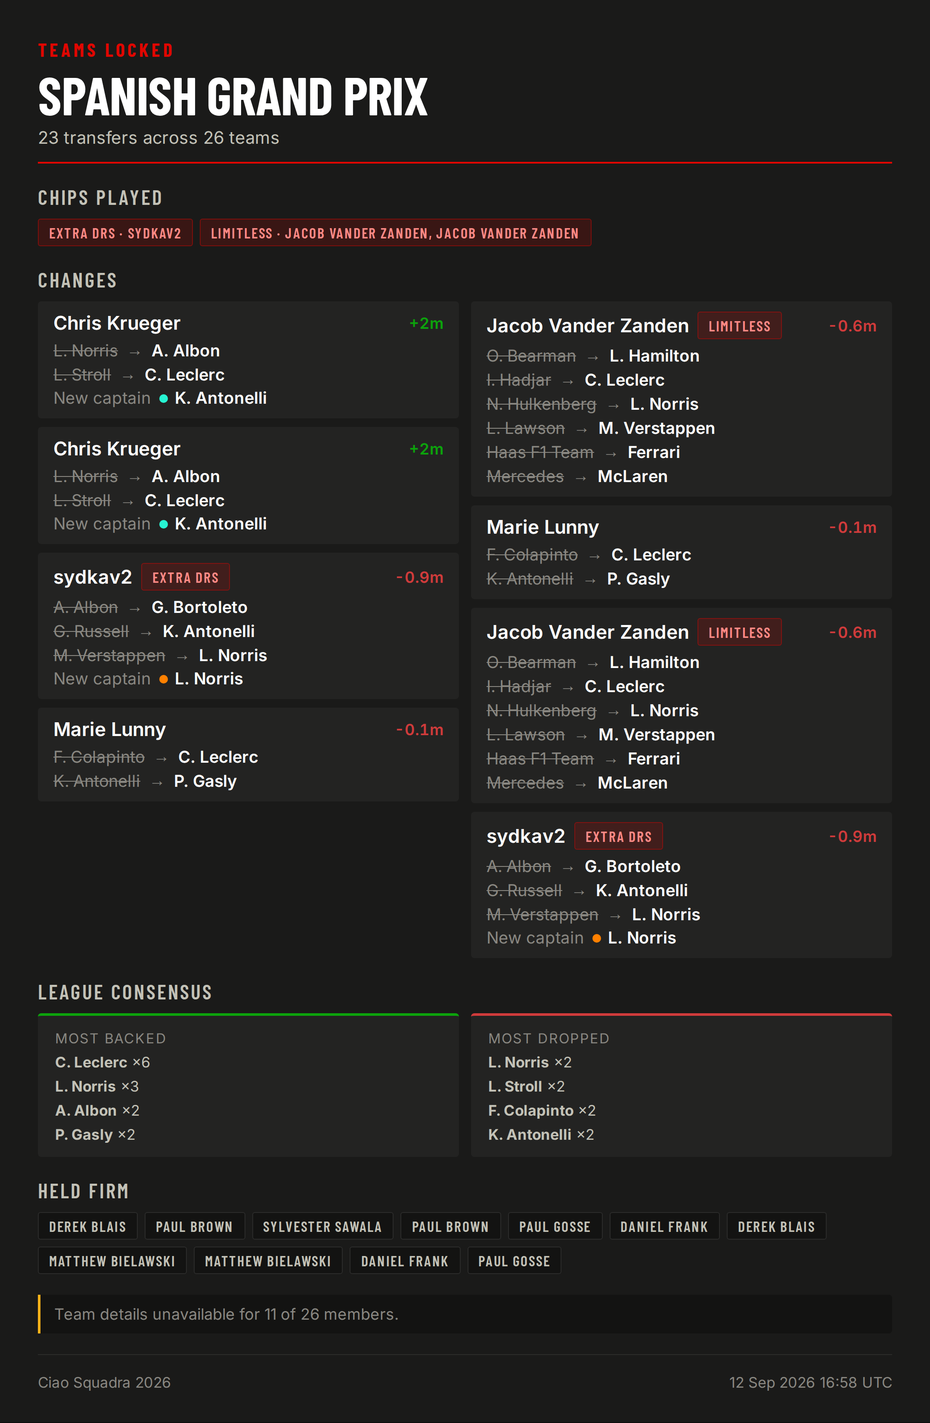
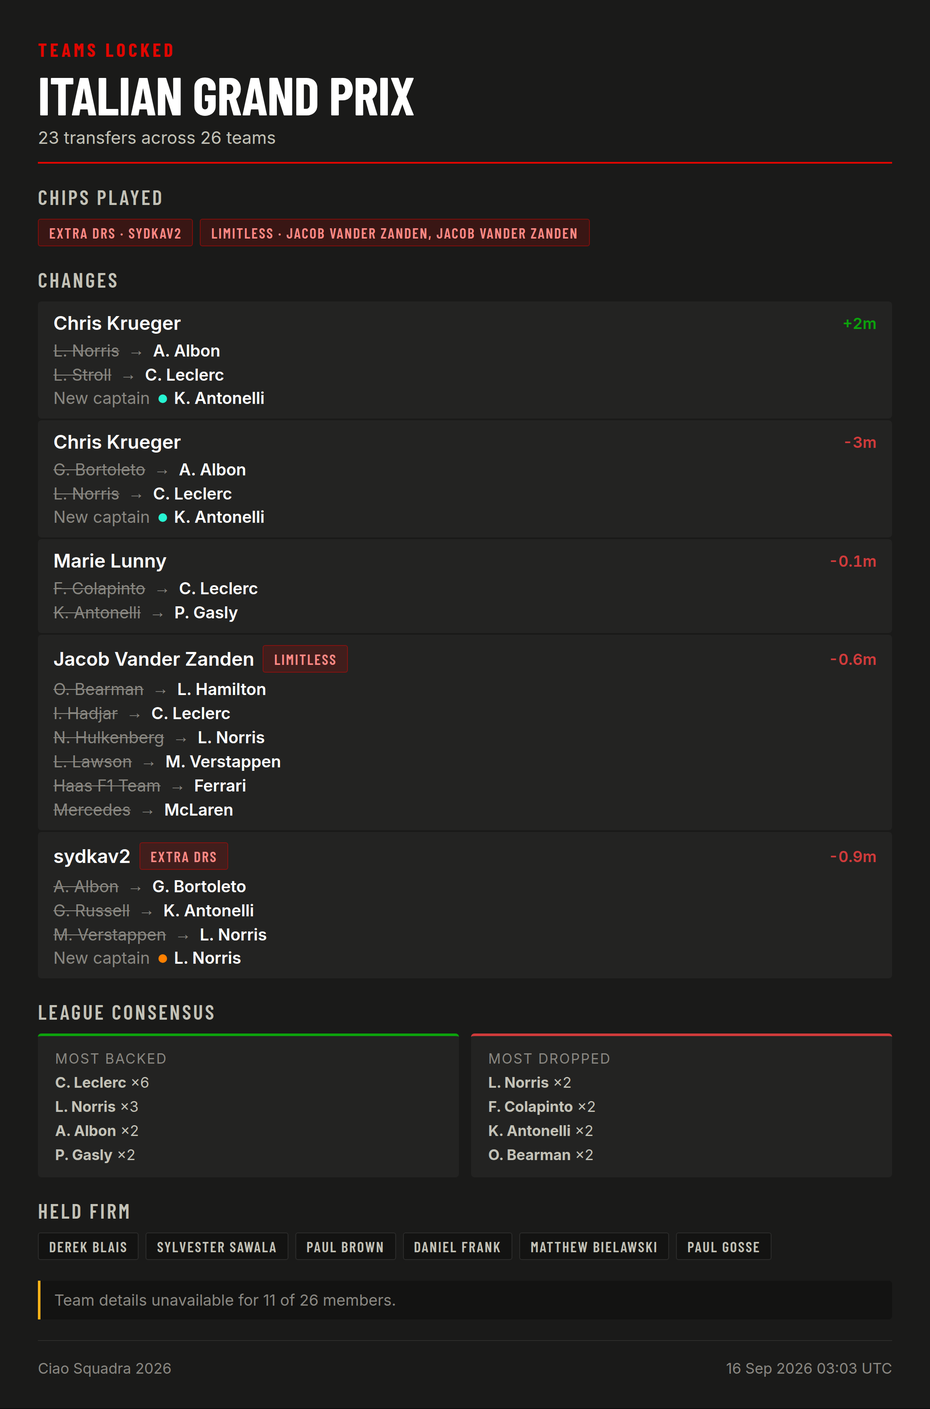
Fix: a two-team account's real transfer could vanish from the lockout card
build_lockout keyed its member-to-change lookup by guid alone
(`by_guid = {c.guid: c for c in changes}`). An account running two teams in
the league -- confirmed live, this project's own owner is one -- produces
two TeamChange entries sharing one guid; the bare-guid dict silently kept
only the second, so both of that account's member rows reported the same
team's status. Whichever team happened to be unchanged "won", which meant:
its name printed twice under "Held firm", and the OTHER team's real
transfer never appeared under "Changes" at all -- not wrong, just gone.

Confirmed against live data: re-running build_lockout on round 15's real
snapshots with the fix surfaces a transfer (Hamilton->Bearman, Lindblad->
Norris on "Chucky Layclercks") that the committed card had silently
dropped, showing that team as "held firm" alongside its own, unrelated
second team instead.

Fixed by keying on (guid, team_no) via the existing team_key() helper --
the same fix diff_standings already had, for the identical reason (see
test_multi_team.py). Regenerated the two committed lockout cards this
affected (rounds 13 and 15); round 13's was also carrying the wrong race
name ("Spanish" instead of "Italian Grand Prix", the same forced-dispatch
mislabeling documented elsewhere in this repo) -- corrected that too while
re-rendering it.

Claude-Session: https://claude.ai/code/session_019AogpxY8ZrLfAj67CcZveZ

diff --git a/docs/rounds/round-13.html b/docs/rounds/round-13.html
@@ -135,7 +135,7 @@ footer.site-footer { font-size: 11px; color: var(--ink-muted); line-height: 1.6;
     <h1>Italian Grand Prix</h1>
     <div class="subtitle">Autodromo Nazionale di Monza</div>
   </header>
-  <div class="section-title">Pre-race</div><div class="card-grid"><div class="card"><div class="card-title">Preview</div><img src="../assets/2026/13/preview.png" alt="Preview" loading="lazy"><div class="card-caption">📅 <strong>Preview</strong> -- Italian Grand Prix<br>Autodromo Nazionale di Monza, Monza<br><br>⏰ Lockout: Saturday 15:00 BST<br>  FP1: Fri 11:30<br>  FP2: Fri 15:00<br>  FP3: Sat 11:30<br>  Qualifying: Sat 15:00 (lockout)<br><br>📰 Worth knowing:<br>  Gasly hails Alpine progress as Colapinto rues ‘harsh’ penalty<br></div></div><div class="card"><div class="card-title">Teams locked</div><img src="../assets/2026/13/lockout.png" alt="Teams locked" loading="lazy"><div class="card-caption">🔒 <strong>Teams are locked</strong> -- Spanish Grand Prix<br><br>23 transfers across 26 teams.<br>🎴 Chips: Extra DRS (sydkav2); Limitless (Jacob Vander Zanden, Jacob Vander Zanden)<br>📈 Most backed: C. Leclerc (×6), L. Norris (×3), A. Albon (×2), P. Gasly (×2)<br>🧊 Held firm: Derek Blais, Paul Brown, Sylvester Sawala, Paul Brown, Paul Gosse, Daniel Frank, Derek Blais, Matthew Bielawski, Matthew Bielawski, Daniel Frank, Paul Gosse<br><br>Good luck 🏎<br></div></div><div class="card"><div class="card-title">Picks</div><img src="../assets/2026/13/picks.png" alt="Picks" loading="lazy"><div class="card-caption">🏁 <strong>Race picks</strong> -- Italian Grand Prix<br>Autodromo Nazionale di Monza, Monza<br><br>📊 Top expected points:<br>  ANT: 24.1 (p10 -7.0 / p90 42.0)<br>  RUS: 23.3 (p10 -5.0 / p90 42.0)<br>  HAM: 22.7 (p10 2.0 / p90 40.0)<br>  LEC: 21.8 (p10 -1.0 / p90 39.0)<br>  NOR: 16.5 (p10 -10.0 / p90 38.0)<br><br>🏗 Captain suggestion: ANT (EV 48.3)<br><br>📈 Likely price risers:<br>  LEC: 100% (Δ+0.28M)<br>  NOR: 100% (Δ+0.28M)<br>  ALO: 100% (Δ+0.49M)<br>  ANT: 97% (Δ+0.23M)<br>  HAD: 84% (Δ+0.40M)<br><br>🧩 Optimal team: COL, BOR, HUL, TSU, LIN + Mercedes, Ferrari (132.5 pts, $99.5M)<br></div></div><div class="card"><div class="card-title">Chip watch</div><img src="../assets/2026/13/chips.png" alt="Chip watch" loading="lazy"><div class="card-caption">🎴 <strong>Chip Watch</strong> -- Spanish Grand Prix<br><br><strong>Played this race</strong><br>  Extra DRS: sydkav2<br>  Limitless: Jacob Vander Zanden, Jacob Vander Zanden<br><br>🧊 Nobody&#x27;s played: Final Fix<br></div></div><div class="card"><div class="card-title">Ownership</div><img src="../assets/2026/13/ownership.png" alt="Ownership" loading="lazy"><div class="card-caption">👥 <strong>Ownership</strong> -- Spanish Grand Prix<br><br>Most owned: <strong>C. Leclerc</strong> (7/15 teams)<br>💎 Differentials: C. Sainz, E. Ocon, I. Hadjar, L. Lawson<br></div></div><div class="card"><div class="card-title">Budget cap</div><img src="../assets/2026/13/budget.png" alt="Budget cap" loading="lazy"><div class="card-caption">💰 <strong>Budget Cap</strong> -- Spanish Grand Prix<br><br>Biggest budget: <strong>Chris Krueger</strong> ($127.5M)<br>Tightest squeeze: <strong>Paul Gosse</strong> ($100.0M)<br></div></div><div class="card"><div class="card-title">Model benchmarks</div><img src="../assets/2026/13/benchmarks.png" alt="Model benchmarks" loading="lazy"><div class="card-caption">📊 <strong>2026 round 13 benchmarks</strong><br>3 snapshot(s) captured<br><br>Our top picks:<br>  HAM: 16.5 (p10 -5.0 / p90 37.0)<br>  LEC: 15.4 (p10 -8.0 / p90 37.1)<br>  RUS: 15.2 (p10 -8.0 / p90 38.0)<br>  GAS: 15.1 (p10 -2.0 / p90 36.1)<br>  LIN: 14.6 (p10 -5.0 / p90 35.0)<br><br>official_projected (pre_FP1) (n=23):<br>  ALB: 0.0<br>  ALO: 0.0<br>  ANT: 0.0<br>  BEA: 0.0<br>  BOR: 0.0<br><br>crowd_consensus (ownership) (n=23):<br>  BEA: 51.0<br>  LIN: 45.0<br>  ANT: 36.0<br>  HUL: 36.0<br>  BOR: 35.0<br><br>ours (pre_FP1) (n=23):<br>  HAM: 15.3<br>  RUS: 15.2<br>  LEC: 14.9<br>  ANT: 14.9<br>  GAS: 14.2<br><br>Our backtested track record: MAE 13.2, Spearman 0.462<br></div></div></div><div class="section-title">Post-race</div><div class="card-grid"><div class="card"><div class="card-title">Recap</div><img src="../assets/2026/13/recap.png" alt="Recap" loading="lazy"><div class="card-caption">🏁 <strong>Italian Grand Prix</strong> -- Ciao Squadra 2026<br>🥇 Round winner: <strong>sydkav2</strong> with 519 pts<br><br><strong>Top 3</strong><br>1. Chris Krueger — 3437<br>2. Derek Blais — 3191<br>3. Paul Brown — 3084<br><br>📈 Best move: sydkav2 (+52) — 3 out, 3 in (G. Bortoleto, K. Antonelli, L. Norris)<br>📉 Worst move: Marie Lunny (-105) — 2 out, 2 in (C. Leclerc, P. Gasly)<br><br>🎴 Chips: Extra DRS (sydkav2); Limitless (Jacob Vander Zanden, Jacob Vander Zanden)<br></div></div><div class="card"><div class="card-title">Winners &amp; losers</div><img src="../assets/2026/13/winners_losers.png" alt="Winners &amp; losers" loading="lazy"><div class="card-caption">🏆 <strong>Winners &amp; Losers</strong> -- Italian Grand Prix<br><br>🥇 Best race: <strong>sydkav2</strong> (+519 pts)<br>📉 Roughest race: <strong>Jacob Vander Zanden</strong> (+98 pts)<br>📈 Best move: sydkav2 (+52) — 3 out, 3 in (G. Bortoleto, K. Antonelli…)<br>💀 Worst move: Marie Lunny (-105) — 2 out, 2 in (C. Leclerc, P. Gasly)<br>🏗 Best armband: Chris Krueger on K. Antonelli (+93)<br></div></div><div class="card"><div class="card-title">Hindsight</div><img src="../assets/2026/13/hindsight.png" alt="Hindsight" loading="lazy"><div class="card-caption">🔮 <strong>Hindsight</strong> -- Italian Grand Prix<br><br>Optimal team scored 428 pts (captain: ANT)<br>Closest to perfect: sydkav2 (519 pts, --91)<br>Furthest from perfect: Caitlyn Landry (111 pts, -317)<br>League average gap to optimal: 182.1 pts<br></div></div></div><div class="section-title">Model vs. actuals</div>
+  <div class="section-title">Pre-race</div><div class="card-grid"><div class="card"><div class="card-title">Preview</div><img src="../assets/2026/13/preview.png" alt="Preview" loading="lazy"><div class="card-caption">📅 <strong>Preview</strong> -- Italian Grand Prix<br>Autodromo Nazionale di Monza, Monza<br><br>⏰ Lockout: Saturday 15:00 BST<br>  FP1: Fri 11:30<br>  FP2: Fri 15:00<br>  FP3: Sat 11:30<br>  Qualifying: Sat 15:00 (lockout)<br><br>📰 Worth knowing:<br>  Gasly hails Alpine progress as Colapinto rues ‘harsh’ penalty<br></div></div><div class="card"><div class="card-title">Teams locked</div><img src="../assets/2026/13/lockout.png" alt="Teams locked" loading="lazy"><div class="card-caption">🔒 <strong>Teams are locked</strong> -- Italian Grand Prix<br><br>23 transfers across 26 teams.<br>🎴 Chips: Extra DRS (sydkav2); Limitless (Jacob Vander Zanden, Jacob Vander Zanden)<br>📈 Most backed: C. Leclerc (×6), L. Norris (×3), A. Albon (×2), P. Gasly (×2)<br>🧊 Held firm: Derek Blais, Sylvester Sawala, Paul Brown, Daniel Frank, Matthew Bielawski, Paul Gosse<br><br>Good luck 🏎<br></div></div><div class="card"><div class="card-title">Picks</div><img src="../assets/2026/13/picks.png" alt="Picks" loading="lazy"><div class="card-caption">🏁 <strong>Race picks</strong> -- Italian Grand Prix<br>Autodromo Nazionale di Monza, Monza<br><br>📊 Top expected points:<br>  ANT: 24.1 (p10 -7.0 / p90 42.0)<br>  RUS: 23.3 (p10 -5.0 / p90 42.0)<br>  HAM: 22.7 (p10 2.0 / p90 40.0)<br>  LEC: 21.8 (p10 -1.0 / p90 39.0)<br>  NOR: 16.5 (p10 -10.0 / p90 38.0)<br><br>🏗 Captain suggestion: ANT (EV 48.3)<br><br>📈 Likely price risers:<br>  LEC: 100% (Δ+0.28M)<br>  NOR: 100% (Δ+0.28M)<br>  ALO: 100% (Δ+0.49M)<br>  ANT: 97% (Δ+0.23M)<br>  HAD: 84% (Δ+0.40M)<br><br>🧩 Optimal team: COL, BOR, HUL, TSU, LIN + Mercedes, Ferrari (132.5 pts, $99.5M)<br></div></div><div class="card"><div class="card-title">Chip watch</div><img src="../assets/2026/13/chips.png" alt="Chip watch" loading="lazy"><div class="card-caption">🎴 <strong>Chip Watch</strong> -- Spanish Grand Prix<br><br><strong>Played this race</strong><br>  Extra DRS: sydkav2<br>  Limitless: Jacob Vander Zanden, Jacob Vander Zanden<br><br>🧊 Nobody&#x27;s played: Final Fix<br></div></div><div class="card"><div class="card-title">Ownership</div><img src="../assets/2026/13/ownership.png" alt="Ownership" loading="lazy"><div class="card-caption">👥 <strong>Ownership</strong> -- Spanish Grand Prix<br><br>Most owned: <strong>C. Leclerc</strong> (7/15 teams)<br>💎 Differentials: C. Sainz, E. Ocon, I. Hadjar, L. Lawson<br></div></div><div class="card"><div class="card-title">Budget cap</div><img src="../assets/2026/13/budget.png" alt="Budget cap" loading="lazy"><div class="card-caption">💰 <strong>Budget Cap</strong> -- Spanish Grand Prix<br><br>Biggest budget: <strong>Chris Krueger</strong> ($127.5M)<br>Tightest squeeze: <strong>Paul Gosse</strong> ($100.0M)<br></div></div><div class="card"><div class="card-title">Model benchmarks</div><img src="../assets/2026/13/benchmarks.png" alt="Model benchmarks" loading="lazy"><div class="card-caption">📊 <strong>2026 round 13 benchmarks</strong><br>3 snapshot(s) captured<br><br>Our top picks:<br>  HAM: 16.5 (p10 -5.0 / p90 37.0)<br>  LEC: 15.4 (p10 -8.0 / p90 37.1)<br>  RUS: 15.2 (p10 -8.0 / p90 38.0)<br>  GAS: 15.1 (p10 -2.0 / p90 36.1)<br>  LIN: 14.6 (p10 -5.0 / p90 35.0)<br><br>official_projected (pre_FP1) (n=23):<br>  ALB: 0.0<br>  ALO: 0.0<br>  ANT: 0.0<br>  BEA: 0.0<br>  BOR: 0.0<br><br>crowd_consensus (ownership) (n=23):<br>  BEA: 51.0<br>  LIN: 45.0<br>  ANT: 36.0<br>  HUL: 36.0<br>  BOR: 35.0<br><br>ours (pre_FP1) (n=23):<br>  HAM: 15.3<br>  RUS: 15.2<br>  LEC: 14.9<br>  ANT: 14.9<br>  GAS: 14.2<br><br>Our backtested track record: MAE 13.2, Spearman 0.462<br></div></div></div><div class="section-title">Post-race</div><div class="card-grid"><div class="card"><div class="card-title">Recap</div><img src="../assets/2026/13/recap.png" alt="Recap" loading="lazy"><div class="card-caption">🏁 <strong>Italian Grand Prix</strong> -- Ciao Squadra 2026<br>🥇 Round winner: <strong>sydkav2</strong> with 519 pts<br><br><strong>Top 3</strong><br>1. Chris Krueger — 3437<br>2. Derek Blais — 3191<br>3. Paul Brown — 3084<br><br>📈 Best move: sydkav2 (+52) — 3 out, 3 in (G. Bortoleto, K. Antonelli, L. Norris)<br>📉 Worst move: Marie Lunny (-105) — 2 out, 2 in (C. Leclerc, P. Gasly)<br><br>🎴 Chips: Extra DRS (sydkav2); Limitless (Jacob Vander Zanden, Jacob Vander Zanden)<br></div></div><div class="card"><div class="card-title">Winners &amp; losers</div><img src="../assets/2026/13/winners_losers.png" alt="Winners &amp; losers" loading="lazy"><div class="card-caption">🏆 <strong>Winners &amp; Losers</strong> -- Italian Grand Prix<br><br>🥇 Best race: <strong>sydkav2</strong> (+519 pts)<br>📉 Roughest race: <strong>Jacob Vander Zanden</strong> (+98 pts)<br>📈 Best move: sydkav2 (+52) — 3 out, 3 in (G. Bortoleto, K. Antonelli…)<br>💀 Worst move: Marie Lunny (-105) — 2 out, 2 in (C. Leclerc, P. Gasly)<br>🏗 Best armband: Chris Krueger on K. Antonelli (+93)<br></div></div><div class="card"><div class="card-title">Hindsight</div><img src="../assets/2026/13/hindsight.png" alt="Hindsight" loading="lazy"><div class="card-caption">🔮 <strong>Hindsight</strong> -- Italian Grand Prix<br><br>Optimal team scored 428 pts (captain: ANT)<br>Closest to perfect: sydkav2 (519 pts, --91)<br>Furthest from perfect: Caitlyn Landry (111 pts, -317)<br>League average gap to optimal: 182.1 pts<br></div></div></div><div class="section-title">Model vs. actuals</div>
 <div class="metric-row">
   <div class="metric"><div class="metric-label">Mean absolute error</div><div class="metric-value">13.0 pts</div></div>
   <div class="metric"><div class="metric-label">Rank correlation</div><div class="metric-value">0.55</div></div>

diff --git a/docs/rounds/round-15.html b/docs/rounds/round-15.html
@@ -135,7 +135,7 @@ footer.site-footer { font-size: 11px; color: var(--ink-muted); line-height: 1.6;
     <h1>Azerbaijan Grand Prix</h1>
     <div class="subtitle">Baku City Circuit</div>
   </header>
-  <div class="section-title">Deep dives</div><div class="extras-list"><a href="../extras/round-15/pace-ladder.html">Pace Ladder</a><a href="../extras/round-15/prerace-analysis.html">Prerace Analysis</a></div><div class="section-title">Pre-race</div><div class="card-grid"><div class="card"><div class="card-title">Teams locked</div><img src="../assets/2026/15/lockout.png" alt="Teams locked" loading="lazy"><div class="card-caption">🔒 <strong>Teams are locked</strong> -- Azerbaijan Grand Prix<br><br>2 transfers across 26 teams.<br>🧊 Held firm: Chris Krueger, Derek Blais, Paul Brown, Chris Krueger, sydkav2, Sylvester Sawala, Paul Brown, Marie Lunny, Jacob Vander Zanden, Paul Gosse, Marie Lunny, Daniel Frank, Derek Blais, Jacob Vander Zanden, Matthew Bielawski, Matthew Bielawski, Daniel Frank, sydkav2, Paul Gosse<br><br>Good luck 🏎<br></div></div><div class="card"><div class="card-title">Picks</div><img src="../assets/2026/15/picks.png" alt="Picks" loading="lazy"><div class="card-caption">🏁 <strong>Race picks</strong> -- Azerbaijan Grand Prix<br>Baku City Circuit, Baku<br><br>📊 Top expected points:<br>  ANT: 28.9 (p10 -2.0 / p90 49.0)<br>  RUS: 25.7 (p10 -3.0 / p90 45.0)<br>  HAM: 21.3 (p10 -8.0 / p90 42.0)<br>  LEC: 21.0 (p10 -8.0 / p90 40.0)<br>  NOR: 18.9 (p10 -10.0 / p90 41.0)<br><br>🏗 Captain suggestion: ANT (EV 57.9)<br><br>📈 Likely price risers:<br>  ANT: 100% (Δ+0.30M)<br>  NOR: 100% (Δ+0.23M)<br>  HUL: 89% (Δ+0.48M)<br>  RUS: 86% (Δ+0.10M)<br>  ALB: 71% (Δ+0.18M)<br><br>🧩 Optimal team: STR, HUL, PER, BOT, ANT + Mercedes, Ferrari (186.8 pts, $99.9M)<br></div></div><div class="card"><div class="card-title">Chip watch</div><img src="../assets/2026/15/chips.png" alt="Chip watch" loading="lazy"><div class="card-caption">🎴 <strong>Chip Watch</strong> -- Azerbaijan Grand Prix<br><br>🧊 Nobody&#x27;s played: Final Fix<br></div></div><div class="card"><div class="card-title">Ownership</div><img src="../assets/2026/15/ownership.png" alt="Ownership" loading="lazy"><div class="card-caption">👥 <strong>Ownership</strong> -- Azerbaijan Grand Prix<br><br>Most owned: <strong>K. Antonelli</strong> (9/15 teams)<br>💎 Differentials: C. Sainz, I. Hadjar, L. Lawson, McLaren<br></div></div><div class="card"><div class="card-title">Budget cap</div><img src="../assets/2026/15/budget.png" alt="Budget cap" loading="lazy"><div class="card-caption">💰 <strong>Budget Cap</strong> -- Azerbaijan Grand Prix<br><br>Biggest budget: <strong>Chris Krueger</strong> ($132.1M)<br>Tightest squeeze: <strong>Paul Gosse</strong> ($98.0M)<br></div></div></div><div class="section-title">Post-race</div><div class="card-grid"><div class="card"><div class="card-title">Recap</div><img src="../assets/2026/15/recap.png" alt="Recap" loading="lazy"><div class="card-caption">🏁 <strong>Azerbaijan Grand Prix</strong> -- Ciao Squadra 2026<br>🥇 Round winner: <strong>Daniel Frank</strong> with 235 pts<br><br><strong>Top 3</strong><br>1. Chris Krueger — 3751<br>2. Derek Blais — 3535<br>3. Paul Brown — 3469<br></div></div><div class="card"><div class="card-title">Winners &amp; losers</div><img src="../assets/2026/15/winners_losers.png" alt="Winners &amp; losers" loading="lazy"><div class="card-caption">🏆 <strong>Winners &amp; Losers</strong> -- Azerbaijan Grand Prix<br><br>🥇 Best race: <strong>Daniel Frank</strong> (+235 pts)<br>📉 Roughest race: <strong>Paul Gosse</strong> (+5 pts)<br>💀 Worst move: Chris Krueger (-38) — 2 out, 2 in (O. Bearman, L. Norris)<br>🏗 Best armband: Jacob Vander Zanden on G. Russell (+45)<br></div></div><div class="card"><div class="card-title">Hindsight</div><img src="../assets/2026/15/hindsight.png" alt="Hindsight" loading="lazy"><div class="card-caption">🔮 <strong>Hindsight</strong> -- Azerbaijan Grand Prix<br><br>Optimal team scored 218 pts (captain: HAD)<br>Closest to perfect: Derek Blais (204 pts, -14)<br>Furthest from perfect: Paul Gosse (5 pts, -213)<br>League average gap to optimal: 98.1 pts<br></div></div></div><div class="section-title">Model vs. actuals</div><div class="empty-note">Not in the walk-forward backtest yet -- run <code>f1-fantasy points-backtest</code> to add this round once it has raced.</div>
+  <div class="section-title">Deep dives</div><div class="extras-list"><a href="../extras/round-15/pace-ladder.html">Pace Ladder</a><a href="../extras/round-15/prerace-analysis.html">Prerace Analysis</a></div><div class="section-title">Pre-race</div><div class="card-grid"><div class="card"><div class="card-title">Teams locked</div><img src="../assets/2026/15/lockout.png" alt="Teams locked" loading="lazy"><div class="card-caption">🔒 <strong>Teams are locked</strong> -- Azerbaijan Grand Prix<br><br>2 transfers across 26 teams.<br>🧊 Held firm: Derek Blais, Chris Krueger, Sylvester Sawala, Paul Brown, Daniel Frank, Marie Lunny, Jacob Vander Zanden, Matthew Bielawski, sydkav2, Paul Gosse<br><br>Good luck 🏎<br></div></div><div class="card"><div class="card-title">Picks</div><img src="../assets/2026/15/picks.png" alt="Picks" loading="lazy"><div class="card-caption">🏁 <strong>Race picks</strong> -- Azerbaijan Grand Prix<br>Baku City Circuit, Baku<br><br>📊 Top expected points:<br>  ANT: 28.9 (p10 -2.0 / p90 49.0)<br>  RUS: 25.7 (p10 -3.0 / p90 45.0)<br>  HAM: 21.3 (p10 -8.0 / p90 42.0)<br>  LEC: 21.0 (p10 -8.0 / p90 40.0)<br>  NOR: 18.9 (p10 -10.0 / p90 41.0)<br><br>🏗 Captain suggestion: ANT (EV 57.9)<br><br>📈 Likely price risers:<br>  ANT: 100% (Δ+0.30M)<br>  NOR: 100% (Δ+0.23M)<br>  HUL: 89% (Δ+0.48M)<br>  RUS: 86% (Δ+0.10M)<br>  ALB: 71% (Δ+0.18M)<br><br>🧩 Optimal team: STR, HUL, PER, BOT, ANT + Mercedes, Ferrari (186.8 pts, $99.9M)<br></div></div><div class="card"><div class="card-title">Chip watch</div><img src="../assets/2026/15/chips.png" alt="Chip watch" loading="lazy"><div class="card-caption">🎴 <strong>Chip Watch</strong> -- Azerbaijan Grand Prix<br><br>🧊 Nobody&#x27;s played: Final Fix<br></div></div><div class="card"><div class="card-title">Ownership</div><img src="../assets/2026/15/ownership.png" alt="Ownership" loading="lazy"><div class="card-caption">👥 <strong>Ownership</strong> -- Azerbaijan Grand Prix<br><br>Most owned: <strong>K. Antonelli</strong> (9/15 teams)<br>💎 Differentials: C. Sainz, I. Hadjar, L. Lawson, McLaren<br></div></div><div class="card"><div class="card-title">Budget cap</div><img src="../assets/2026/15/budget.png" alt="Budget cap" loading="lazy"><div class="card-caption">💰 <strong>Budget Cap</strong> -- Azerbaijan Grand Prix<br><br>Biggest budget: <strong>Chris Krueger</strong> ($132.1M)<br>Tightest squeeze: <strong>Paul Gosse</strong> ($98.0M)<br></div></div></div><div class="section-title">Post-race</div><div class="card-grid"><div class="card"><div class="card-title">Recap</div><img src="../assets/2026/15/recap.png" alt="Recap" loading="lazy"><div class="card-caption">🏁 <strong>Azerbaijan Grand Prix</strong> -- Ciao Squadra 2026<br>🥇 Round winner: <strong>Daniel Frank</strong> with 235 pts<br><br><strong>Top 3</strong><br>1. Chris Krueger — 3751<br>2. Derek Blais — 3535<br>3. Paul Brown — 3469<br></div></div><div class="card"><div class="card-title">Winners &amp; losers</div><img src="../assets/2026/15/winners_losers.png" alt="Winners &amp; losers" loading="lazy"><div class="card-caption">🏆 <strong>Winners &amp; Losers</strong> -- Azerbaijan Grand Prix<br><br>🥇 Best race: <strong>Daniel Frank</strong> (+235 pts)<br>📉 Roughest race: <strong>Paul Gosse</strong> (+5 pts)<br>💀 Worst move: Chris Krueger (-38) — 2 out, 2 in (O. Bearman, L. Norris)<br>🏗 Best armband: Jacob Vander Zanden on G. Russell (+45)<br></div></div><div class="card"><div class="card-title">Hindsight</div><img src="../assets/2026/15/hindsight.png" alt="Hindsight" loading="lazy"><div class="card-caption">🔮 <strong>Hindsight</strong> -- Azerbaijan Grand Prix<br><br>Optimal team scored 218 pts (captain: HAD)<br>Closest to perfect: Derek Blais (204 pts, -14)<br>Furthest from perfect: Paul Gosse (5 pts, -213)<br>League average gap to optimal: 98.1 pts<br></div></div></div><div class="section-title">Model vs. actuals</div><div class="empty-note">Not in the walk-forward backtest yet -- run <code>f1-fantasy points-backtest</code> to add this round once it has raced.</div>
   <footer class="site-footer">Ciao Squadra 2026 &middot; generated from this repository's committed cards and snapshots.</footer>
 </div>
 

diff --git a/tests/test_multi_team.py b/tests/test_multi_team.py
@@ -16,6 +16,7 @@ from datetime import datetime, timezone
 import pytest
 
 from f1_fantasy.api.models import Chip, LeagueSnapshot, Member, Phase, team_key
+from f1_fantasy.report.lockout import build_lockout
 from f1_fantasy.store.diff import chip_status, diff_standings, diff_teams, ownership, score_captains
 from tests.conftest import make_players, make_team
 
@@ -161,3 +162,27 @@ def test_standings_movement_matches_each_team_to_its_own_previous_points():
 
     assert moves["sydkav1"].points_gained == pytest.approx(382.0)
     assert moves["sydkav2"].points_gained == pytest.approx(519.0)
+
+
+def test_build_lockout_reports_each_teams_own_status_not_the_last_ones():
+    """Found live: build_lockout's ``by_guid`` dict was keyed on guid alone,
+    so team_no 2's TeamChange silently overwrote team_no 1's in the lookup.
+    Both of a two-team account's member rows then reported team 2's status --
+    if team 2 happened to be unchanged, team 1's real transfer vanished from
+    the card entirely (never listed as a move) while the "held firm" line
+    printed the account's name twice for one actually-unchanged team.
+    """
+    previous = _snapshot(
+        {"player_ids": ["1", "101"], "team_name": "Squad A"},
+        {"player_ids": ["2", "102"], "team_name": "Squad B"},
+    )
+    current = _snapshot(
+        {"player_ids": ["4", "101"], "team_name": "Squad A"},  # swapped 1 -> 4
+        {"player_ids": ["2", "102"], "team_name": "Squad B"},  # unchanged
+    )
+
+    context = build_lockout(current, previous)
+
+    mover_teams = {m["team_name"] for m in context["movers"]}
+    assert mover_teams == {"Squad A"}, "Squad A's real transfer must not be dropped"
+    assert context["held"] == ["Chris"], "only Squad B actually held firm -- not printed twice"

diff --git a/f1_fantasy/report/lockout.py b/f1_fantasy/report/lockout.py
@@ -9,7 +9,7 @@ from __future__ import annotations
 
 from collections import Counter
 
-from f1_fantasy.api.models import CHIP_LABELS, LeagueSnapshot
+from f1_fantasy.api.models import CHIP_LABELS, LeagueSnapshot, team_key
 from f1_fantasy.render.teams import team_color
 from f1_fantasy.store.diff import TeamChange, chip_activations, diff_teams
 
@@ -42,11 +42,16 @@ def build_lockout(
     you_guid: str | None = None,
 ) -> dict:
     changes = diff_teams(previous, current)
-    by_guid = {c.guid: c for c in changes}
+    # Keyed by (guid, team_no), not guid alone -- an account can run more than
+    # one team in this league (see team_key), and a bare-guid key collapses
+    # both teams' TeamChange onto each other: whichever team's diff is built
+    # last wins the dict slot, so the other team's real transfer is silently
+    # dropped and its member row falsely reports the survivor's status twice.
+    by_member = {team_key(c.guid, c.team_no): c for c in changes}
 
     movers, held = [], []
     for member in current.members:
-        change = by_guid.get(member.guid)
+        change = by_member.get(team_key(member.guid, member.team_no))
         if change is None:
             continue
         if change.unchanged:

diff --git a/f1_fantasy/store/diff.py b/f1_fantasy/store/diff.py
@@ -45,6 +45,12 @@ class TeamChange(Model):
     """What one member altered between two races."""
 
     guid: str
+    #: Together with ``guid`` this is the real identity -- see ``team_key``.
+    #: A bare ``guid`` collapses a multi-team account's teams onto each
+    #: other; this field exists so callers that need to key by member (e.g.
+    #: ``build_lockout``, matching each ``current.members`` row back to its
+    #: own change) can do so via ``team_key(guid, team_no)`` instead.
+    team_no: int = 1
     member_name: str
     team_name: str = ""
     drivers_in: list[ScoredPlayer] = []
@@ -212,6 +218,7 @@ def diff_team(
 
     return TeamChange(
         guid=current.guid,
+        team_no=current.team_no,
         member_name=member_name,
         team_name=current.team_name,
         drivers_in=drivers_in,
